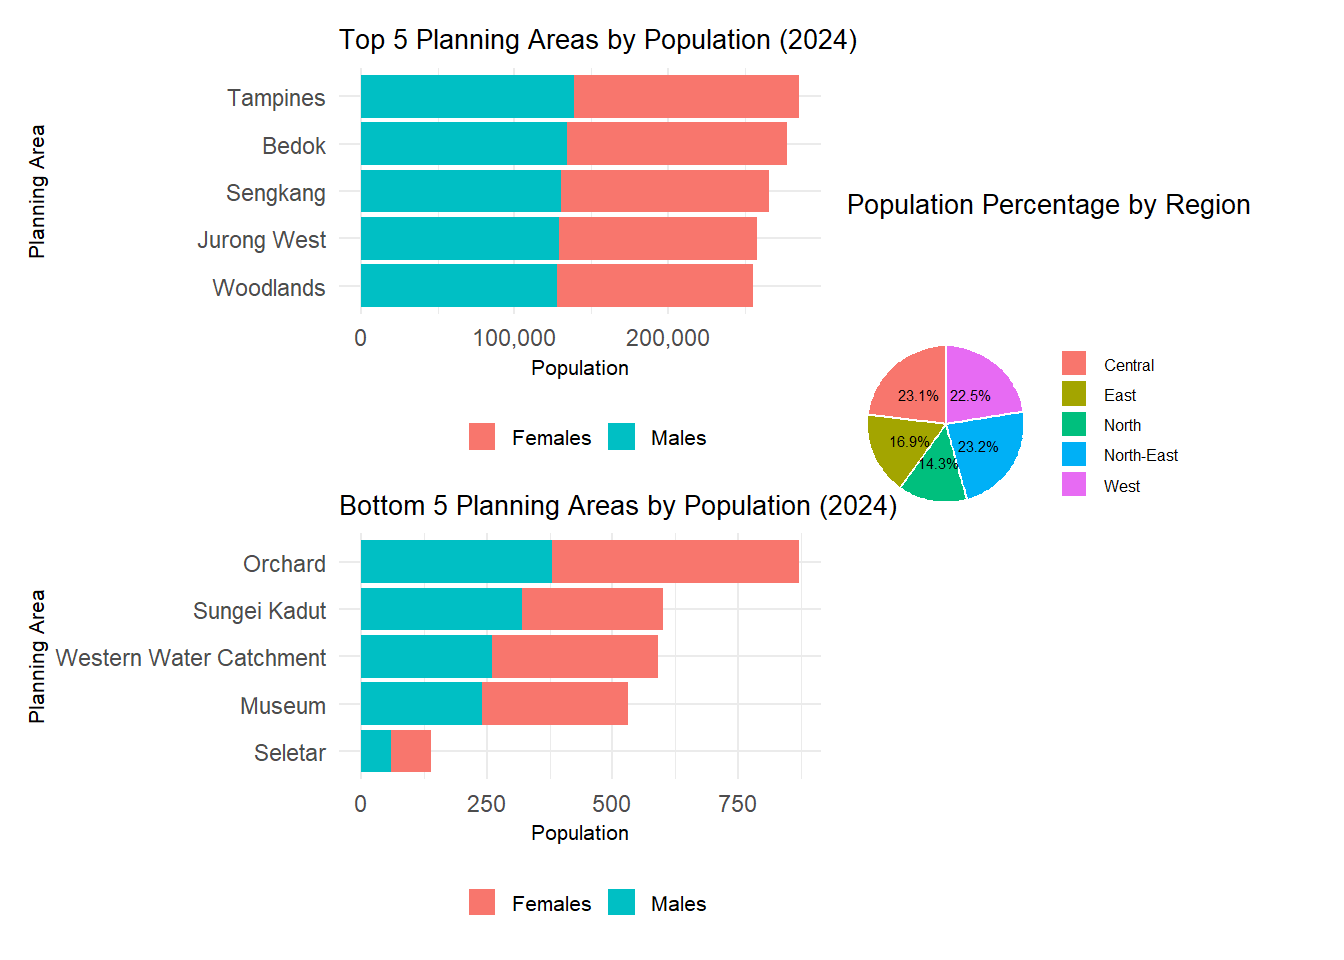
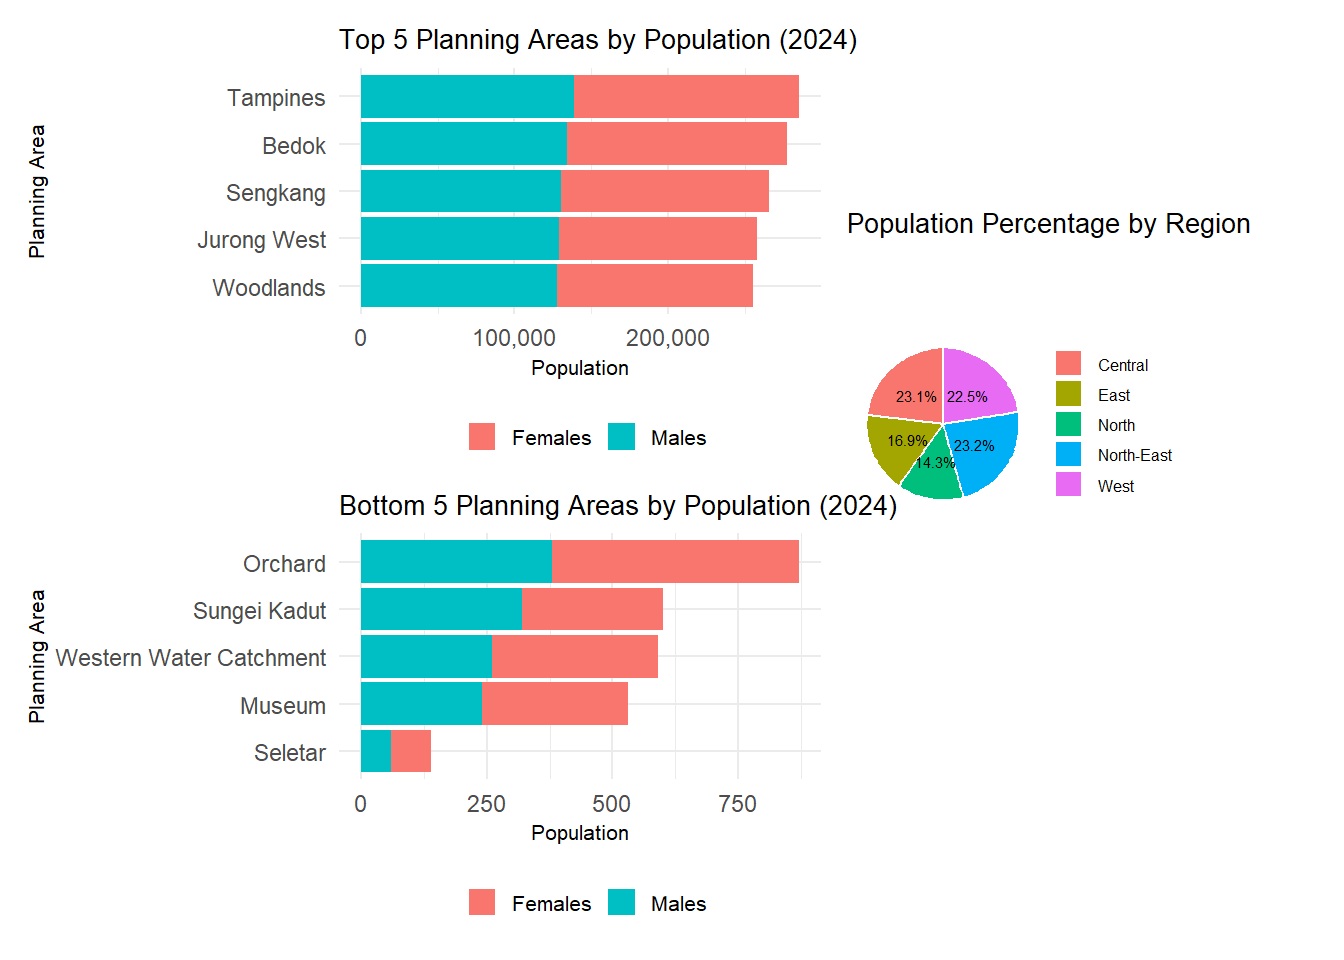
Editing the discussion and writeups

Changed region(s): [[0.6562, 0.3438, 0.875, 0.5312], [0.625, 0.1875, 0.9375, 0.25]]

diff --git a/_site/Take-Home_Ex/Take-Home_Ex01/Take-Home_Ex01.html b/_site/Take-Home_Ex/Take-Home_Ex01/Take-Home_Ex01.html
@@ -179,12 +179,16 @@ pre > code.sourceCode > span > a:first-child::before { text-decoration: underlin
     <h2 id="toc-title">On this page</h2>
    
   <ul>
-  <li><a href="#launching-r-packages" id="toc-launching-r-packages" class="nav-link active" data-scroll-target="#launching-r-packages">Launching R packages</a></li>
+  <li><a href="#overview" id="toc-overview" class="nav-link active" data-scroll-target="#overview">Overview</a></li>
+  <li><a href="#data-cleaning" id="toc-data-cleaning" class="nav-link" data-scroll-target="#data-cleaning">Data Cleaning</a>
+  <ul class="collapse">
+  <li><a href="#launching-r-packages" id="toc-launching-r-packages" class="nav-link" data-scroll-target="#launching-r-packages">Launching R packages</a></li>
   <li><a href="#adding-a-column-called-region-to-group-the-pa-into-the-5-singapore-regions" id="toc-adding-a-column-called-region-to-group-the-pa-into-the-5-singapore-regions" class="nav-link" data-scroll-target="#adding-a-column-called-region-to-group-the-pa-into-the-5-singapore-regions">Adding a column called “Region” to group the PA into the 5 Singapore Regions</a></li>
   <li><a href="#cleaning-of-dataset-by-removing-population-sum-0" id="toc-cleaning-of-dataset-by-removing-population-sum-0" class="nav-link" data-scroll-target="#cleaning-of-dataset-by-removing-population-sum-0">Cleaning of dataset by removing Population Sum = 0</a></li>
+  </ul></li>
   <li><a href="#top-5-planning-areas-by-total-population" id="toc-top-5-planning-areas-by-total-population" class="nav-link" data-scroll-target="#top-5-planning-areas-by-total-population">1) Top 5 Planning Areas by Total Population</a></li>
   <li><a href="#population-of-malefemale-across-the-ages" id="toc-population-of-malefemale-across-the-ages" class="nav-link" data-scroll-target="#population-of-malefemale-across-the-ages">2) Population of male/female across the ages</a></li>
-  <li><a href="#top-5-subzones-with-highest-population-with-boxplots-of-the-age-distribution" id="toc-top-5-subzones-with-highest-population-with-boxplots-of-the-age-distribution" class="nav-link" data-scroll-target="#top-5-subzones-with-highest-population-with-boxplots-of-the-age-distribution">3) Top 5 subzones with highest population with boxplots of the age distribution</a></li>
+  <li><a href="#top-4-subzones-with-highest-population-with-boxplots-of-the-age-distribution" id="toc-top-4-subzones-with-highest-population-with-boxplots-of-the-age-distribution" class="nav-link" data-scroll-target="#top-4-subzones-with-highest-population-with-boxplots-of-the-age-distribution">3) Top 4 subzones with highest population with boxplots of the age distribution</a></li>
   </ul>
 </nav>
 </nav>
@@ -232,8 +236,19 @@ pre > code.sourceCode > span > a:first-child::before { text-decoration: underlin
 </header>
 
 
-<section id="launching-r-packages" class="level2">
-<h2 class="anchored" data-anchor-id="launching-r-packages">Launching R packages</h2>
+<section id="overview" class="level2">
+<h2 class="anchored" data-anchor-id="overview">Overview</h2>
+<p>This study is obtained from a local Singapore dataset to reveal how Singapore’s resident population is distributed by age and sex across its various planning areas and subzones as of June 2024. It helps to map age cohorts geographically, examine sex-ratio, key-demographic locations and population density.</p>
+<p>I will be taking a look at the dataset to provide some key insights of the following stated below:</p>
+<ol type="1">
+<li><p>Regional breakdown for policy makers allocating services such as transport based on geographic distributions.</p></li>
+<li><p>Target professionals providing community healthcare or age-targeted programs for the population.</p></li>
+</ol>
+</section>
+<section id="data-cleaning" class="level2">
+<h2 class="anchored" data-anchor-id="data-cleaning">Data Cleaning</h2>
+<section id="launching-r-packages" class="level3">
+<h3 class="anchored" data-anchor-id="launching-r-packages">Launching R packages</h3>
 <p>Launching R packages and libraries required.</p>
 <div class="cell">
 <details class="code-fold">
@@ -293,8 +308,8 @@ $ Time &lt;dbl&gt; 2024, 2024, 2024, 2024, 2024, 2024, 2024, 2024, 2024, 2024, 2
 </div>
 <p>Based on the result, there is no missing values or “NA” values. The dataset is ready for analysis.</p>
 </section>
-<section id="adding-a-column-called-region-to-group-the-pa-into-the-5-singapore-regions" class="level2">
-<h2 class="anchored" data-anchor-id="adding-a-column-called-region-to-group-the-pa-into-the-5-singapore-regions">Adding a column called “Region” to group the PA into the 5 Singapore Regions</h2>
+<section id="adding-a-column-called-region-to-group-the-pa-into-the-5-singapore-regions" class="level3">
+<h3 class="anchored" data-anchor-id="adding-a-column-called-region-to-group-the-pa-into-the-5-singapore-regions">Adding a column called “Region” to group the PA into the 5 Singapore Regions</h3>
 <p>I want to further visualise the PA easier into the 5 Regions in Singapore. Using dplyr’s mutate() + case_when(), I will map each Planning Area (PA) into one of the five regions North, South, East, West and North-East using the following source website. (https://www.newlaunchesreview.com/regions-of-singapore/)</p>
 <div class="cell">
 <details class="code-fold">
@@ -418,8 +433,8 @@ $ Time &lt;dbl&gt; 2024, 2024, 2024, 2024, 2024, 2024, 2024, 2024, 2024, 2024, 2
 </div>
 </div>
 </section>
-<section id="cleaning-of-dataset-by-removing-population-sum-0" class="level2">
-<h2 class="anchored" data-anchor-id="cleaning-of-dataset-by-removing-population-sum-0">Cleaning of dataset by removing Population Sum = 0</h2>
+<section id="cleaning-of-dataset-by-removing-population-sum-0" class="level3">
+<h3 class="anchored" data-anchor-id="cleaning-of-dataset-by-removing-population-sum-0">Cleaning of dataset by removing Population Sum = 0</h3>
 <p>There are 13 Planning Areas with Population Sum = 0 is not useful for visualization. I will remove these 13 PA’s from the dataset and call the new dataset as df2.</p>
 <div class="cell">
 <details class="code-fold">
@@ -430,16 +445,12 @@ $ Time &lt;dbl&gt; 2024, 2024, 2024, 2024, 2024, 2024, 2024, 2024, 2024, 2024, 2
 <span id="cb17-4"><a href="#cb17-4" aria-hidden="true" tabindex="-1"></a>  <span class="fu">ungroup</span>()</span></code><button title="Copy to Clipboard" class="code-copy-button"><i class="bi"></i></button></pre></div>
 </details>
 </div>
+<p>With this, I will start the visualization graphs below.</p>
+</section>
 </section>
 <section id="top-5-planning-areas-by-total-population" class="level2">
 <h2 class="anchored" data-anchor-id="top-5-planning-areas-by-total-population">1) Top 5 Planning Areas by Total Population</h2>
-<p>We want to find out the top 5 planning areas which the most population.</p>
-<ol type="1">
-<li><p>Summarise total Pop by PA, arrange descending, and slice top 5.</p></li>
-<li><p>Filter original data to those top 5 PAs and group by Sex to get sex‐specific totals.</p></li>
-<li><p>geom_col() to build stacked bars, ordered by total population.</p></li>
-<li><p>coord_flip() for horizontal labels and theme_minimal() for clarity.</p></li>
-</ol>
+<p>I would want a piechart plot showing the percentage spread of the population in the 5 regions. This will show where majority of the people in the transformed dataset is living at. On top of this, 2 more barchart plots to show the “Top 5” and “Bottom 5” most populated Planning Areas are in Singapore.</p>
 <div class="cell">
 <details class="code-fold">
 <summary>Code</summary>
@@ -530,7 +541,7 @@ $ Time &lt;dbl&gt; 2024, 2024, 2024, 2024, 2024, 2024, 2024, 2024, 2024, 2024, 2
 <span id="cb18-85"><a href="#cb18-85" aria-hidden="true" tabindex="-1"></a>       <span class="at">x =</span> <span class="cn">NULL</span>, <span class="at">y =</span> <span class="cn">NULL</span>, <span class="at">fill =</span> <span class="cn">NULL</span>) <span class="sc">+</span></span>
 <span id="cb18-86"><a href="#cb18-86" aria-hidden="true" tabindex="-1"></a>  <span class="fu">theme_void</span>() <span class="sc">+</span></span>
 <span id="cb18-87"><a href="#cb18-87" aria-hidden="true" tabindex="-1"></a>  <span class="fu">theme</span>(</span>
-<span id="cb18-88"><a href="#cb18-88" aria-hidden="true" tabindex="-1"></a>      <span class="at">plot.title        =</span> <span class="fu">element_text</span>(<span class="at">size =</span> <span class="dv">10</span>, <span class="at">margin =</span> <span class="fu">margin</span>(<span class="at">b =</span> <span class="dv">5</span>), <span class="at">vjust =</span> <span class="sc">-</span><span class="dv">25</span>),</span>
+<span id="cb18-88"><a href="#cb18-88" aria-hidden="true" tabindex="-1"></a>      <span class="at">plot.title        =</span> <span class="fu">element_text</span>(<span class="at">size =</span> <span class="dv">10</span>, <span class="at">margin =</span> <span class="fu">margin</span>(<span class="at">b =</span> <span class="dv">5</span>), <span class="at">vjust =</span> <span class="sc">-</span><span class="dv">28</span>),</span>
 <span id="cb18-89"><a href="#cb18-89" aria-hidden="true" tabindex="-1"></a>      <span class="at">legend.position   =</span> <span class="st">"right"</span>,</span>
 <span id="cb18-90"><a href="#cb18-90" aria-hidden="true" tabindex="-1"></a>      <span class="at">legend.key.size   =</span> <span class="fu">unit</span>(<span class="fl">0.4</span>, <span class="st">"cm"</span>),</span>
 <span id="cb18-91"><a href="#cb18-91" aria-hidden="true" tabindex="-1"></a>      <span class="at">legend.text       =</span> <span class="fu">element_text</span>(<span class="at">size =</span> <span class="dv">6</span>),</span>
@@ -540,7 +551,7 @@ $ Time &lt;dbl&gt; 2024, 2024, 2024, 2024, 2024, 2024, 2024, 2024, 2024, 2024, 2
 <span id="cb18-95"><a href="#cb18-95" aria-hidden="true" tabindex="-1"></a></span>
 <span id="cb18-96"><a href="#cb18-96" aria-hidden="true" tabindex="-1"></a></span>
 <span id="cb18-97"><a href="#cb18-97" aria-hidden="true" tabindex="-1"></a>combined <span class="ot">&lt;-</span> (p1 <span class="sc">/</span> p2) <span class="sc">|</span> p3 <span class="sc">+</span></span>
-<span id="cb18-98"><a href="#cb18-98" aria-hidden="true" tabindex="-1"></a>  <span class="fu">plot_layout</span>(<span class="at">widths =</span> <span class="fu">c</span>(<span class="dv">2</span>, <span class="fl">1.4</span>)) <span class="sc">+</span></span>
+<span id="cb18-98"><a href="#cb18-98" aria-hidden="true" tabindex="-1"></a>  <span class="fu">plot_layout</span>(<span class="at">widths =</span> <span class="fu">c</span>(<span class="dv">2</span>, <span class="fl">1.5</span>)) <span class="sc">+</span></span>
 <span id="cb18-99"><a href="#cb18-99" aria-hidden="true" tabindex="-1"></a>  <span class="co"># --- ADJUSTMENT for overall ---</span></span>
 <span id="cb18-100"><a href="#cb18-100" aria-hidden="true" tabindex="-1"></a>  <span class="fu">plot_annotation</span>(<span class="at">theme =</span> <span class="fu">theme</span>(</span>
 <span id="cb18-101"><a href="#cb18-101" aria-hidden="true" tabindex="-1"></a>    <span class="at">plot.margin =</span> <span class="fu">margin</span>(<span class="dv">10</span>, <span class="dv">10</span>, <span class="dv">10</span>, <span class="dv">10</span>)</span>
@@ -556,20 +567,17 @@ $ Time &lt;dbl&gt; 2024, 2024, 2024, 2024, 2024, 2024, 2024, 2024, 2024, 2024, 2
 </div>
 </div>
 </div>
-<p>Discussion:</p>
-<p>These five Planning Areas collectively house the highest resident counts. Jurong West leads, followed by Yishun, Ang Mo Kio, Woodlands, and Sengkang. In each, the male/female split is roughly even, though Jurong West and Yishun show a slight male majority—again reflecting migrant worker clusters. The differences in bar lengths emphasize varying suburban densities. Planners and infrastructure teams can use this view to prioritize resource allocation (schools, clinics) where populations are largest.</p>
+<p><strong>Discussion:</strong></p>
+<ul>
+<li>Highest population were from Central, West and North-East Regions based on the Pie Chart.</li>
+<li>The top 5 Planning Areas collectively houses the highest resident counts above 200,000 where Tampines leads the distribution. For the bottom 5, the resident counts are below 1000 with Seletar being the lowest.</li>
+<li>In each, the male/female split is roughly even with no majority of sex in a particular area. Though the bottom 5 areas has a slight female majority for some, it does not accurate reflect the cluster due to its low resident count.</li>
+<li>The differences in bar lengths emphasize varying suburban densities. This can be a good insight for Planners and infrastructure teams to prioritize resource allocation (schools, clinics) where populations are largest.</li>
+</ul>
 </section>
 <section id="population-of-malefemale-across-the-ages" class="level2">
 <h2 class="anchored" data-anchor-id="population-of-malefemale-across-the-ages">2) Population of male/female across the ages</h2>
-<p>We want to find compare the population of sex(male/female) across the age groups.</p>
-<ol type="1">
-<li><p>Change the Age column from Character type to Numeric Type for the steps below.</p></li>
-<li><p>Bin ages into 10-year bands (0–9, 10–19 etc.) using mutate(Age…)</p></li>
-<li><p>Ensure Ages “90 and above” does not become “NA”.</p></li>
-<li><p>Group total population by age groups and sex via group_by(AgeGroup, Sex) + summarise(Pop=sum(Pop))</p></li>
-<li><p>Using geom_col(position=“dodge”), we will plot “side-by-side bars” for males vs.&nbsp;females in each age group</p></li>
-<li><p>Scale_y_continuous(labels=comma) ensures human-readable axis and hrbrthemes’ theme_ipsum() and tilted x-labels for clarity.</p></li>
-</ol>
+<p>Based on the initial view, I would like to check the spread of ages across the population in the dataset. To visualize the distribution for male and female, we will plot a bar chart with Age as the X-axis, Population as the Y-axis and bar graphs representing the sex. For the age, I will bin them in 10-year bands for better aesthetic purposes.</p>
 <div class="cell">
 <details class="code-fold">
 <summary>Code</summary>
@@ -618,16 +626,15 @@ $ Time &lt;dbl&gt; 2024, 2024, 2024, 2024, 2024, 2024, 2024, 2024, 2024, 2024, 2
 </div>
 </div>
 </div>
+<p><strong>Discussion:</strong></p>
+<ul>
+<li><p>The age distribution has a positive skew with most of the population in the middle age ranges.</p></li>
+<li><p>Females do appear slightly higher than males from 30 years old onwards which might reflect women having longer lifespan.However, the disparity isn’t very obvious and it is well balanced distribution.</p></li>
+</ul>
 </section>
-<section id="top-5-subzones-with-highest-population-with-boxplots-of-the-age-distribution" class="level2">
-<h2 class="anchored" data-anchor-id="top-5-subzones-with-highest-population-with-boxplots-of-the-age-distribution">3) Top 5 subzones with highest population with boxplots of the age distribution</h2>
-<ol type="1">
-<li><p>Summarise df to find the five SZ with highest total Pop.</p></li>
-<li><p>Create bar_data for a simple horizontal bar chart of those totals.</p></li>
-<li><p>“Uncount” df into box_data so that each unit of population becomes one row with its Age, suitable for geom_boxplot().</p></li>
-<li><p>Plot the bar chart (p_bar) and boxplots (p_box) with coord_flip() for readability.</p></li>
-<li><p>Stack them with patchwork using / to get one above the other, and add a shared title.</p></li>
-</ol>
+<section id="top-4-subzones-with-highest-population-with-boxplots-of-the-age-distribution" class="level2">
+<h2 class="anchored" data-anchor-id="top-4-subzones-with-highest-population-with-boxplots-of-the-age-distribution">3) Top 4 subzones with highest population with boxplots of the age distribution</h2>
+<p>I would like to find out the highest 4 subzones in Tampines based on the population graph. To see which subzones contributed to it and what is the age group living there. I will first plot a barchart and also boxplot to visualize these properly.</p>
 <div class="cell">
 <details class="code-fold">
 <summary>Code</summary>
@@ -686,7 +693,11 @@ $ Time &lt;dbl&gt; 2024, 2024, 2024, 2024, 2024, 2024, 2024, 2024, 2024, 2024, 2
 </div>
 </div>
 </div>
-<p>Discussion The upper panel highlights which subzones house the most people. The lower panel’s boxplots show each subzone’s age‐structure: the median (thick line), interquartile range (box), and whiskers reveal whether a subzone skews younger (tight IQR at lower ages) or older (longer tails toward high ages). For example, if Jurong East Central has a lower median and narrower box, it’s younger and more homogeneous; whereas Bishan East might show a higher median and longer whiskers, signaling more seniors. This combined view helps target age‐specific services in the busiest subzones.</p>
+<p><strong>Discussion:</strong> - There is a obvious majority of the population in Tampines staying in Tampines West &amp; East.</p>
+<ul>
+<li><p>Based on the boxplot, the IQR (Lower, Median, Upper Quantile) is between 25 to 60 years old. Only residents at Tampines North is lower between 10 to 35 years old. This could be due to newer house such as BTO at Tampines North areas.</p></li>
+<li><p>This trend can inform on transport services focusing in the busiest areas at Tampines West &amp; East as the population is significantly larger as compared to Tampines North &amp; Simei.</p></li>
+</ul>
 
 
 </section>
